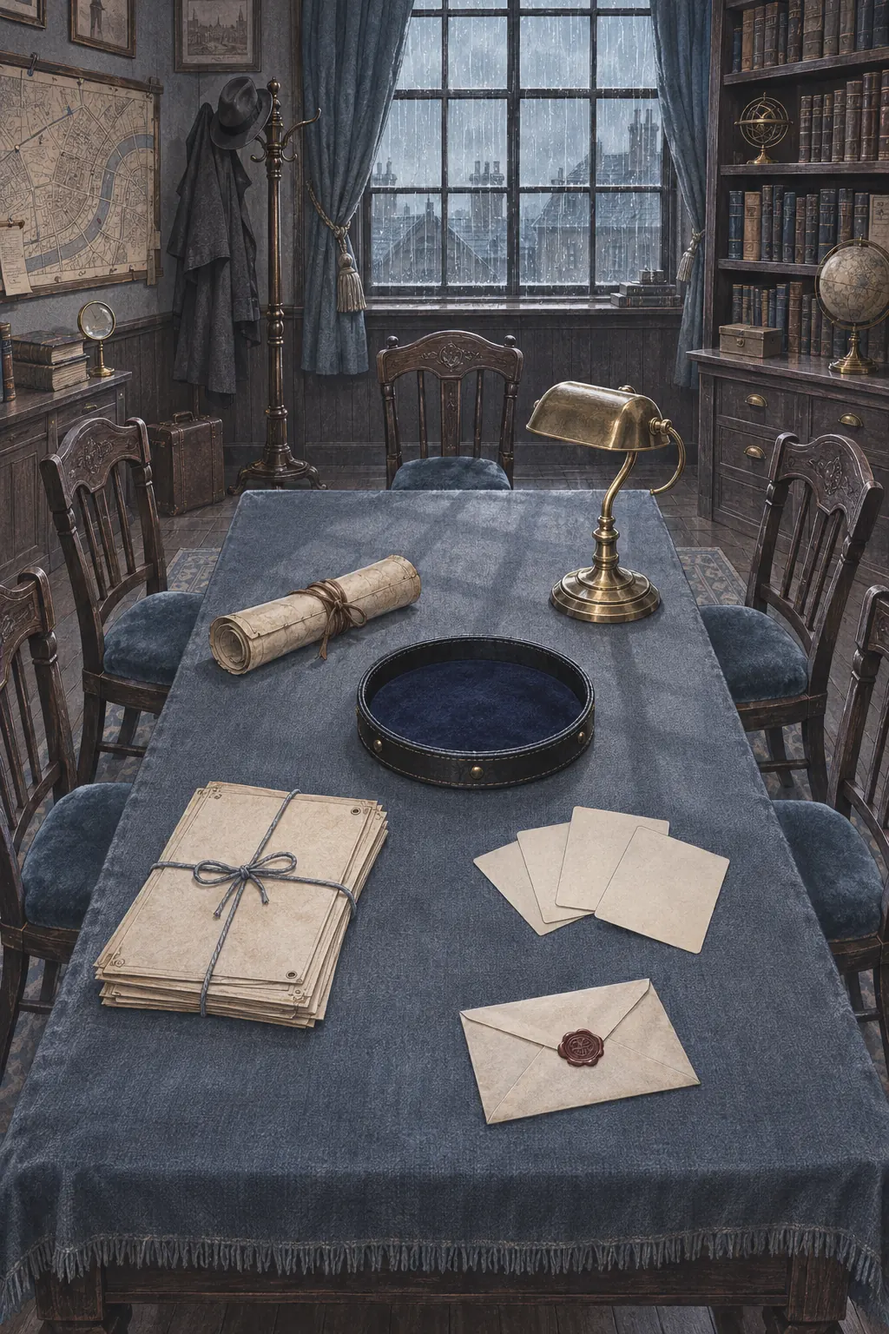
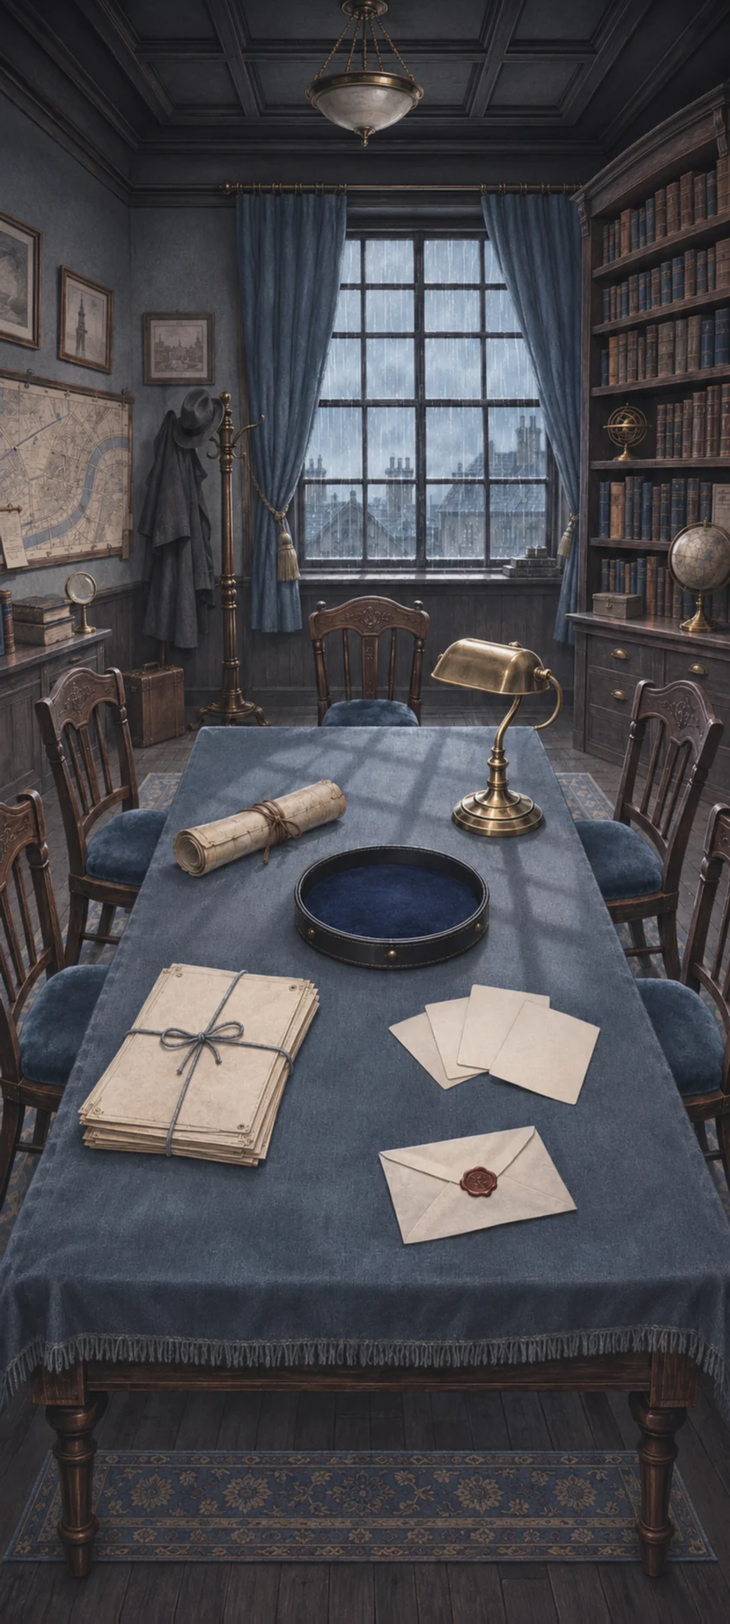
v0.8.311 幕间新开屏（红线证物、掷骰子、放大镜揭开插画）；书桌换成补画过的瘦长图，不裁两边
Claude-Session: https://claude.ai/code/session_01W7dSsqzJ4o6uwur84WiXDA

diff --git a/phone/apps/interlude/interlude.js b/phone/apps/interlude/interlude.js
@@ -41,12 +41,13 @@ let ac = null;   // 白噪音用的（和电台一样是程序算出来的）   
 const failed = (e, what) => { if (e.message === '已中止') toast('已取消'); else { if (!e.logId) log('error', '幕间', what + '：' + e.message, e); toast(what + '：' + e.message); } };
 
 /* ---------- 书桌 ---------- */
-// 图上的位置（原图 1024×1536 的像素）：[左, 上, 右, 下]；椅子多两个数是头像坐的位置。第一把（远端正对着你的主位）是 KP 的
-const IW = 1024, IH = 1536;
+// 图上的位置（最早那张 1024×1536 的图的像素）：[左, 上, 右, 下]；椅子多两个数是头像坐的位置。第一把（远端正对着你的主位）是 KP 的
+// 现在的图是 GPT 往上下补画过的瘦长图（841×1870，手机上不用裁两边）：老图缩成 0.817 倍落在里面，往下挪了 OY。下面的数还是老图的，换算一下
+const IW = 1029, IH = 2289, OX = 2, OY = 463;
 const SPOTS = [['files', [110, 900, 450, 1185], '卷宗', '所有的局'], ['cards', [545, 925, 840, 1095], '调查员卡', '车卡'], ['tray', [410, 755, 688, 905], '骰子盘', '掷骰子'],
   ['lamp', [605, 440, 790, 715], '台灯', '开关'], ['map', [240, 640, 485, 780], '旧地图', 'DND'], ['letter', [528, 1125, 805, 1285], '火漆信', '名录']];
 const CHAIRS = [[430, 380, 605, 565, 517, 515], [45, 480, 230, 830, 150, 700], [805, 500, 1015, 900, 885, 715], [0, 650, 150, 1230, 75, 965], [890, 670, 1024, 1260, 960, 965]];
-const pct = (v, all) => v / all * 100 + '%';
+const pct = (v, all) => v / all * 100 + '%', pxl = x => pct(x + OX, IW), pyt = y => pct(y + OY, IH);
 const keepSeats = () => { state.apps.interlude.seat = { kp: pick.kp, party: pick.party }; commit('apps'); };
 
 export function open() {
@@ -69,15 +70,15 @@ export function open() {
   const mo = new MutationObserver(() => { if (!scene.isConnected) mo.disconnect(); else if (lamp === null) paintLamp(); });
   mo.observe(document.querySelector('.as-phone'), { attributes: true, attributeFilter: ['data-mode'] });
   // 标签：钉在东西上的小玻璃牌
-  const tag = (x, y, text, cls = '') => h('span.as-int-pin' + cls, { style: `left:${pct(x, IW)};top:${pct(y, IH)}` }, h('i'), h('b', text));
-  const hot = (box, key) => h('button.as-int-hot', { 'aria-label': key, dataset: { k: key }, style: `left:${pct(box[0], IW)};top:${pct(box[1], IH)};width:${pct(box[2] - box[0], IW)};height:${pct(box[3] - box[1], IH)}` });
+  const tag = (x, y, text, cls = '') => h('span.as-int-pin' + cls, { style: `left:${pxl(x)};top:${pyt(y)}` }, h('i'), h('b', text));
+  const hot = (box, key) => h('button.as-int-hot', { 'aria-label': key, dataset: { k: key }, style: `left:${pxl(box[0])};top:${pyt(box[1])};width:${pct(box[2] - box[0], IW)};height:${pct(box[3] - box[1], IH)}` });
   SPOTS.forEach(([k, b, name, sub]) => world.append(hot(b, k), tag((b[0] + b[2]) / 2, b[1] + 6, sub ? `${name} · ${sub}` : name)));
   CHAIRS.forEach((c, i) => world.append(hot(c, i ? 'chair' : 'kp')));
   world.append(tag(517, 390, '主位 · KP'));
   // 左边远处那把椅子也钉一个小牌（和主位一样一直在），不然不知道点椅子能叫人上桌；椅子靠边，牌子往里伸，不出屏幕
   world.append(tag(175, 500, '座位 · 选人上桌', '.is-l'));
   // 椅子上坐的人：主位是 KP（中立的就放剪影），其余四把坐玩家；超过四个人，最后一把叠着显示「+几」
-  const seats = CHAIRS.map(c => { const el = h('span.as-int-sit', { style: `left:${pct(c[4], IW)};top:${pct(c[5], IH)}` }); world.append(el); return el; });
+  const seats = CHAIRS.map(c => { const el = h('span.as-int-sit', { style: `left:${pxl(c[4])};top:${pyt(c[5])}` }); world.append(el); return el; });
   const paintSeats = () => {
     const kc = pick.kp !== 'sys' && contact(pick.kp);
     seats[0].replaceChildren(kc ? avatar(kc.avatar, nameOf(kc), 40) : h('span.as-int-sit__kp', img('kp')), h('small', kc ? nameOf(kc) : '中立 KP')); seats[0].hidden = false;
@@ -86,9 +87,9 @@ export function open() {
   };
   if (!seated) { seated = true; Object.assign(pick, state.apps.interlude.seat); }
   pick.party = pick.party.filter(id => contact(id) && id !== pick.kp); if (!kpOk()) pick.kp = 'sys'; paintSeats();
-  const dice = h('div.as-int-traydice', { style: `left:${pct(470, IW)};top:${pct(770, IH)};width:${pct(160, IW)};height:${pct(110, IH)}` }); world.append(dice); restDice(dice);
+  const dice = h('div.as-int-traydice', { style: `left:${pxl(470)};top:${pyt(770)};width:${pct(160, IW)};height:${pct(110, IH)}` }); world.append(dice); restDice(dice);
   // 拖着看、推镜头
-  // 一屏放下整张桌子（作者不要左右拖）：比铺满再小一点好让两边的椅子露出来；图贴着顶，空出的一小截落在底下「上桌」那条后面（贴底的话顶上会空一大块）；靠边那两把椅子上的头像往里挪到看得见的地方
+  // 一屏放下整张桌子（作者不要左右拖、不要裁两边）：宽度铺满；屏幕比图短就裁掉一点上下补画的部分（桌子留在中间），比图还瘦长才放大裁两边；靠边那两把椅子上的头像往里挪到看得见的地方
   let W = 0, H = 0, ww = 0, wh = 0, ox = 0, oy = 0, zoom = null;
   const apply = (anim = true) => {
     world.style.transition = anim ? '' : 'none';
@@ -98,9 +99,9 @@ export function open() {
     world.style.transform = `translate(${tx}px, ${ty}px) scale(${s})`;
   };
   const fit = () => {
-    W = scene.clientWidth; H = scene.clientHeight; const k = Math.max(W / IW, H / IH * .92); ww = IW * k; wh = IH * k; ox = (W - ww) / 2; oy = 0;
+    W = scene.clientWidth; H = scene.clientHeight; const k = Math.max(W / IW, H / IH); ww = IW * k; wh = IH * k; ox = (W - ww) / 2; oy = Math.min(0, Math.max(H - wh, H / 2 - wh * .54));
     Object.assign(world.style, { width: ww + 'px', height: wh + 'px', left: ox + 'px', top: oy + 'px' });
-    const cut = -ox / k + 40; seats.forEach((el, i) => { el.style.left = pct(Math.min(IW - cut, Math.max(cut, CHAIRS[i][4])), IW); });   // 靠边的往里挪
+    const cut = -ox / k + 40; seats.forEach((el, i) => { el.style.left = pct(Math.min(IW - cut, Math.max(cut, CHAIRS[i][4] + OX)), IW); });   // 靠边的往里挪
     apply(false);
   };
   new ResizeObserver(fit).observe(scene);
@@ -153,121 +154,59 @@ export function open() {
   return p.el;
 }
 
-/* ---------- 开屏：羊皮卷展开 → 羽毛笔写下深蓝鎏金的楷书 → 火漆盖章 → 整张纸烧起来、灰随风散掉 ---------- */
+/* ---------- 开屏（克苏鲁这一套；以后 DND 另做一套，骨架一样：一根线 → 骰子 → 揭开插画）：
+ * 黑底上红线一段段串起六件证物，最后指向正中 → 两颗十面骰抛进来落定（真的掷一次）→ 放大镜滑过来，镜片里是全彩的插画（那扇门），镜片越放越大铺满 → 「幕间」和开屏语。
+ * 掷出 100（大失败）整张图发红、开屏语固定那句「门后面的东西」；掷出 01（大成功）门里的光变成金的 ---------- */
 // 开屏语轮着用（作者挑的七句）；字体两款轮着随机。都在设置 → 应用管理 → 幕间里能改
 export const SPLASH_FONTS = [['xdks', '玄冬楷书'], ['qtbf', '千图笔锋手写体']];
 export const SPLASH_LINES = ['这一夜不会被记住。所以，放心去做。', '愿你今夜运气很好，好到不必知道真相。', '门后面的东西也在等你。它比你有耐心。', '别在纸上找自己的名字。找到了，也别念出声。',
   '龙在睡觉。别在这时候数你的金币。', '灯灭之后，请各位保持原来的表情。', '读到这里，还来得及合上。——算了，你已经坐下了。'];
-const loadImg = src => new Promise(ok => { const i = new Image(); i.onload = () => ok(i); i.onerror = () => ok(null); i.src = src; });
+// 证物：[中心 x, 中心 y, 宽（都是占屏幕的比例）, 歪多少度, 高 ÷ 宽]，红线照这个顺序串；图钉在每张的顶上正中
+const CLUES = [[.27, .16, .4, -7, 355 / 420], [.75, .21, .4, 6, 380 / 415], [.12, .37, .23, -12, 420 / 264], [.84, .64, .33, 8, 364 / 352], [.25, .71, .38, -5, 360 / 405], [.63, .87, .4, 4, 318 / 420]];
+const LENS = [.3466, .3566, .3003, 617 / 640];   // 放大镜图里镜片的圆心（占图宽、高）、半径（占图宽）、图的高 ÷ 宽
 async function splash(host) {
   const A = state.apps.interlude, pickF = A.font || 'random', f = SPLASH_FONTS.find(x => x[0] === pickF) || SPLASH_FONTS[Math.floor(Math.random() * SPLASH_FONTS.length)];
   const pool = SPLASH_LINES.filter((_, i) => !(A.lineOff || []).includes(i)); if (!pool.length) pool.push(SPLASH_LINES[0]);
-  const line = pool[(A.turn || 0) % pool.length]; A.turn = ((A.turn || 0) + 1) % 10000; commit('apps');
-  const cv = h('canvas'), fx = h('canvas'), el = h('div.as-int-splash', img('splash-bg'), cv, fx, h('button.as-int-splash__skip', { onclick: () => done() }, '跳过'));
+  const t = Math.floor(Math.random() * 10), u = Math.floor(Math.random() * 10), fumble = !t && !u, crit = !t && u === 1;
+  const line = fumble ? SPLASH_LINES[2] : pool[(A.turn || 0) % pool.length]; A.turn = ((A.turn || 0) + 1) % 10000; commit('apps');
+  const board = h('div.as-int-sp__board'), dice = h('div.as-int-sp__dice'), main = img('splash-main', '.as-int-sp__main'), lens = img('lens', '.as-int-sp__lens');
+  const el = h('div.as-int-splash' + (fumble ? '.is-fumble' : crit ? '.is-crit' : ''), board, dice, main, lens, h('div.as-int-sp__title', h('b', '幕间'), h('i', 'INTERLUDE')), h('p.as-int-sp__line', line),
+    h('button.as-int-splash__skip', { onclick: e => { e.stopPropagation(); done(); } }, '跳过'));
   host.append(el);
-  let dead = false, raf = 0;
-  function done() { if (dead) return; dead = true; cancelAnimationFrame(raf); el.classList.add('is-out'); setTimeout(() => el.remove(), 500); }
+  let dead = false, raf = 0; const timers = [];
+  function done() { if (dead) return; dead = true; cancelAnimationFrame(raf); timers.forEach(clearTimeout); el.classList.add('is-out'); setTimeout(() => el.remove(), 500); }
+  const at = (ms, fn) => timers.push(setTimeout(fn, ms));
   const face = new FontFace('AsterSplash', `url(${BASE}fonts/${f[0]}.woff2)`);
-  const [paper, quill, seal] = await Promise.all([loadImg(BASE + 'scroll.webp'), loadImg(BASE + 'quill.webp'), loadImg(BASE + 'seal.webp'), face.load().then(x => document.fonts.add(x)).catch(() => {})]);
-  if (dead || !paper) { done(); return; }
-  const dpr = Math.min(2, devicePixelRatio || 1), W = el.clientWidth, H = el.clientHeight, pw = Math.min(W * .84, H * .6 * paper.width / paper.height), ph = pw * paper.height / paper.width;
-  const px = (W - pw) / 2, py = (H - ph) / 2;
-  for (const c of [cv, fx]) { c.width = W * dpr; c.height = H * dpr; c.style.width = W + 'px'; c.style.height = H + 'px'; }
-  const x = cv.getContext('2d'), y = fx.getContext('2d'); x.scale(dpr, dpr); y.scale(dpr, dpr);
-  const FONT = '"AsterSplash", "Noto Serif SC", serif', size = pw * .092;
-  // 句子按纸的宽度折行，每行居中；落款靠右
-  x.font = `${size}px ${FONT}`;
-  const rows = []; let cur = '';
-  for (const ch of line) { if (x.measureText(cur + ch).width > pw * .74 && cur && !'。，、；：？！—」'.includes(ch)) { rows.push(cur); cur = ''; } cur += ch; }   // 标点不开头
-  if (cur) rows.push(cur);
-  const top = .5 - (rows.length - 1) * .08;
-  const lines = rows.map((t, i) => [t, size, top + i * .16, 0]);
-  const gold = (y0, y1) => { const g = x.createLinearGradient(0, y0, 0, y1); g.addColorStop(0, '#f6e3a1'); g.addColorStop(.5, '#c9973c'); g.addColorStop(1, '#8a6224'); return g; };
-  const xOf = (t, sz, right) => right ? px + pw * .86 - x.measureText(t).width : W / 2 - x.measureText(t).width / 2;   // 左边
-  // 深蓝的字、鎏金的边：先描一圈金，再把字填上
-  const text = (t, sz, ry, right) => { x.font = `${sz}px ${FONT}`; x.textAlign = 'left'; x.textBaseline = 'middle';
-    const cy = py + ph * ry, lx = xOf(t, sz, right); x.lineJoin = 'round'; x.lineWidth = Math.max(1.6, sz * .075); x.strokeStyle = gold(cy - sz / 2, cy + sz / 2); x.strokeText(t, lx, cy); x.fillStyle = '#16244a'; x.fillText(t, lx, cy); };
-  // 一步步：展开 0.8s → 每行按长短写 → 盖章 → 烧
-  const T0 = performance.now(), unroll = 800, perChar = 110, gap = 260;
-  const plan = []; let t = unroll + 200; for (const l of lines) { const d = Math.max(500, l[0].length * perChar); plan.push([t, d]); t += d + gap; }
-  const stampAt = t + 100, burnAt = stampAt + 1100, burnLen = 2200, end = burnAt + burnLen + 300;
-  let snap = null, noise = null, ash = [], stamped = false;
-  // 纸烧起来：先把写好字、盖好章的这张纸拍成一张图，再按「噪声 + 离左下角多远」算每个点什么时候烧到
-  const prep = () => {
-    const w = Math.round(W * dpr), hh = Math.round(H * dpr); snap = x.getImageData(0, 0, w, hh);
-    // 两层噪声（粗的定大轮廓、细的让火边碎一点）
-    const layer = c => { const gw = Math.ceil(w / c) + 2, gh = Math.ceil(hh / c) + 2, g = Float32Array.from({ length: gw * gh }, Math.random);
-      return (i, j) => { const gx = i / c, gy = j / c, x0 = gx | 0, y0 = gy | 0, a = gx - x0, b = gy - y0, sx = a * a * (3 - 2 * a), sy = b * b * (3 - 2 * b);
-        return g[y0 * gw + x0] * (1 - sx) * (1 - sy) + g[y0 * gw + x0 + 1] * sx * (1 - sy) + g[(y0 + 1) * gw + x0] * (1 - sx) * sy + g[(y0 + 1) * gw + x0 + 1] * sx * sy; }; };
-    const big = layer(40 * dpr), fine = layer(7 * dpr);
-    noise = new Float32Array(w * hh);
-    for (let j = 0; j < hh; j++) for (let i = 0; i < w; i++) {
-      const dist = Math.hypot(i / dpr - px, j / dpr - (py + ph)) / Math.hypot(pw, ph);
-      noise[j * w + i] = dist * .82 + big(i, j) * .13 + fine(i, j) * .05;
-    }
-  };
-  const burn = k => {
-    const w = snap.width, out = x.createImageData(w, snap.height), s = snap.data, o = out.data, T = k * 1.1;
-    for (let p = 0, i = 0; p < noise.length; p++, i += 4) {
-      const a = s[i + 3]; if (!a) continue;
-      const d = noise[p] - T;
-      if (d < -.012) continue;                                   // 烧没了
-      if (d < 0) { const e = 1 + d / .012; o[i] = 255; o[i + 1] = 110 + 120 * e; o[i + 2] = 20 + 40 * e; o[i + 3] = a * e; if (Math.random() < .002) ash.push(p); continue; }   // 火边
-      const c = d < .025 ? d / .025 : 1;                          // 火边往里窄窄一圈烤焦
-      o[i] = s[i] * c + 40 * (1 - c); o[i + 1] = s[i + 1] * c + 18 * (1 - c); o[i + 2] = s[i + 2] * c + 6 * (1 - c); o[i + 3] = a;
-    }
-    x.setTransform(1, 0, 0, 1, 0, 0); x.putImageData(out, 0, 0); x.setTransform(dpr, 0, 0, dpr, 0, 0);
-  };
-  const flakes = [];
+  await Promise.all([main.decode(), lens.decode(), face.load().then(x => document.fonts.add(x))].map(x => x.catch(() => {})));
+  if (dead) return;
+  // 插画铺满，门（原图 560, 610 那儿）落在屏幕正中偏上：骰子落在它前面，放大镜也停在那儿
+  const W = el.clientWidth, H = el.clientHeight, k = Math.max(W / 1024, H / 1536), cx = W / 2, cy = H * .43;
+  const ml = Math.min(0, Math.max(W - 1024 * k, cx - 560 * k)), mt = Math.min(0, Math.max(H - 1536 * k, cy - 610 * k));
+  Object.assign(main.style, { width: 1024 * k + 'px', height: 1536 * k + 'px', left: ml + 'px', top: mt + 'px', transformOrigin: `${cx - ml}px ${cy - mt}px` });
+  // 证物 + 红线（线从每张的图钉拉到下一张，中间垂一点）
+  const pins = CLUES.map(([x, y, w, r, hw], i) => {
+    const a = r * Math.PI / 180, up = w * W * hw * .44;
+    board.append(h('img', { src: `${BASE}clue${i}.webp`, alt: '', style: `left:${x * 100}%;top:${y * 100}%;width:${w * 100}%;--r:${r}deg;animation-delay:${i * 150}ms` }));
+    return [x * W + Math.sin(a) * up, y * H - Math.cos(a) * up];
+  });
+  const d = [...pins, [cx, cy]].map((p, i, all) => i ? `Q${(all[i - 1][0] + p[0]) / 2} ${(all[i - 1][1] + p[1]) / 2 + 14} ${p[0]} ${p[1]}` : `M${p[0]} ${p[1]}`).join('');
+  const svg = document.createElementNS('http://www.w3.org/2000/svg', 'svg'); svg.setAttribute('viewBox', `0 0 ${W} ${H}`); svg.innerHTML = `<path d="${d}" pathLength="1"/>`; board.append(svg);
+  at(1100, () => throwDice(dice, t, u));
+  // 放大镜：从右下角滑到门那儿（镜片半径 R0），停一下，再放大到盖住整个屏幕。插画只在镜片的圆里看得见
+  const R0 = W * .27, lw = R0 / LENS[2], far = Math.hypot(Math.max(cx, W - cx), Math.max(cy, H - cy)) + 8;
+  Object.assign(lens.style, { width: lw + 'px', left: -LENS[0] * lw + 'px', top: -LENS[1] * lw * LENS[3] + 'px', transformOrigin: `${LENS[0] * 100}% ${LENS[1] * 100}%` });
+  const ease = v => v < .5 ? 4 * v * v * v : 1 - Math.pow(-2 * v + 2, 3) / 2, T0 = performance.now() + 2800;
   const step = now => {
-    if (dead) return;
-    const ms = now - T0;
-    if (ms < burnAt) {
-      x.clearRect(0, 0, W, H);
-      const u = Math.min(1, ms / unroll), e = 1 - Math.pow(1 - u, 3);
-      x.save(); x.beginPath(); x.rect(px - 20, py, pw + 40, ph * e); x.clip();
-      x.drawImage(paper, px, py, pw, ph);
-      let pen = null;
-      lines.forEach((l, i) => {
-        const [t0, d] = plan[i]; if (ms < t0) return;
-        const k = Math.min(1, (ms - t0) / d);
-        x.font = `${l[1]}px ${FONT}`; const m = x.measureText(l[0]).width, left = xOf(l[0], l[1], l[3]) - 6, right = left + (m + 12) * k;
-        x.save(); x.beginPath(); x.rect(left, py + ph * l[2] - l[1], right - left, l[1] * 2); x.clip(); text(...l); x.restore();
-        if (k < 1) pen = [right, py + ph * l[2]];
-      });
-      if (ms > stampAt && seal) {
-        if (!stamped) { stamped = true; thud(); }
-        const k = Math.min(1, (ms - stampAt) / 180), sz = pw * .26 * (1 + (1 - k) * 1.4), sxp = px + pw * .24, syp = py + ph * .8;
-        x.globalAlpha = k; x.save(); x.translate(sxp, syp); x.rotate(-.2); x.drawImage(seal, -sz / 2, -sz / 2, sz, sz * seal.height / seal.width);
-        x.font = `${sz * .2}px ${FONT}`; x.fillStyle = '#f3dcc7'; x.textAlign = 'center'; x.textBaseline = 'middle'; x.fillText('幕间', 0, 0); x.restore(); x.globalAlpha = 1;
-      }
-      x.restore();
-      y.clearRect(0, 0, W, H);
-      if (pen && quill) { const qh = pw * .34, qw = qh * quill.width / quill.height; y.save(); y.translate(pen[0], pen[1]); y.rotate(.5 + Math.sin(ms / 60) * .06); y.drawImage(quill, -qw * .15, -qh, qw, qh); y.restore(); }
-    } else {
-      if (!snap) { prep(); y.clearRect(0, 0, W, H); }
-      const k = Math.min(1, (ms - burnAt) / burnLen); ash.length = 0; burn(k);
-      // 火边落下的灰：往右上飘，越飘越淡
-      for (const pi of ash.slice(0, 18)) { const w = snap.width; flakes.push({ x: (pi % w) / dpr, y: (pi / w | 0) / dpr, vx: 20 + Math.random() * 50, vy: -20 - Math.random() * 40, life: 1, s: 1 + Math.random() * 2.5, hot: Math.random() < .3 }); }
-      y.clearRect(0, 0, W, H);
-      for (const f of flakes) { f.x += f.vx / 60; f.y += f.vy / 60; f.vy -= .3; f.vx += Math.sin(f.y / 30); f.life -= .012;
-        if (f.life > 0) { y.globalAlpha = f.life; y.fillStyle = f.hot ? '#ffb347' : '#3b332c'; y.fillRect(f.x, f.y, f.s, f.s * .7); } }
-      y.globalAlpha = 1;
-      if (ms > end) { done(); return; }
-    }
-    raf = requestAnimationFrame(step);
+    const ms = now - T0, a = ease(Math.min(1, Math.max(0, ms / 800))), b = Math.min(1, Math.max(0, (ms - 1050) / 750)), g = b * b * b;
+    const x = cx + (1 - a) * W * .75, y = cy + (1 - a) * H * .5 - Math.sin(a * Math.PI) * H * .08, R = R0 + (far - R0) * g;
+    main.style.clipPath = `circle(${R * 1.012}px at ${x - ml}px ${y - mt}px)`;
+    lens.style.transform = `translate(${x}px, ${y}px) rotate(${(1 - a) * 28}deg) scale(${R / R0})`; lens.style.opacity = 1 - g * 1.6;
+    if (b < 1) { raf = requestAnimationFrame(step); return; }
+    main.style.clipPath = 'none'; lens.remove(); board.remove(); dice.remove(); el.classList.add('is-open'); el.onclick = done;
   };
-  raf = requestAnimationFrame(step);
+  at(2800, () => { el.classList.add('is-lens'); raf = requestAnimationFrame(step); });
+  at(7600, done);
 }
-let actx = null;
-function thud() {
-  try {
-    actx = actx || new (window.AudioContext || window.webkitAudioContext)(); const o = actx.createOscillator(), g = actx.createGain(), t = actx.currentTime;
-    o.type = 'triangle'; o.frequency.setValueAtTime(180, t); o.frequency.exponentialRampToValueAtTime(60, t + .12);
-    g.gain.setValueAtTime(.5, t); g.gain.exponentialRampToValueAtTime(.001, t + .18); o.connect(g).connect(actx.destination); o.start(t); o.stop(t + .2);
-  } catch (e) { /* 不让响就算了 */ }
-}
-
 /* ---------- 开局设置：本、气氛、KP、每个人说什么语言、语音怎么合成 → 下一步车卡 ---------- */
 export const VOICE_MODES = [['tap', '点了才合成'], ['next', '提前合成下两句'], ['all', '全部合成']];
 const voiceDefault = () => ({ auto: 'next' }[state.apps.interlude.voice] || state.apps.interlude.voice || 'tap');

diff --git a/phone/apps/interlude/interlude.css b/phone/apps/interlude/interlude.css
@@ -55,10 +55,34 @@
 .as-int-sheet .as-list-item.is-on .as-check { opacity: 1; }
 
 /* ---------- 开屏：画布上展开、写字、盖章、烧掉 ---------- */
-.as-int-splash { position: absolute; inset: 0; z-index: 30; background: #120e0a; transition: opacity 500ms ease; }
-.as-int-splash > img { position: absolute; inset: 0; width: 100%; height: 100%; object-fit: cover; filter: brightness(.72); }
-.as-int-splash canvas { position: absolute; inset: 0; }
+.as-int-splash { position: absolute; inset: 0; z-index: 30; overflow: hidden; background: #070a11; transition: opacity 500ms ease; }
 .as-int-splash.is-out { opacity: 0; pointer-events: none; }
+.as-int-sp__board, .as-int-sp__dice { position: absolute; inset: 0; transition: opacity 500ms; }
+.as-int-sp__board img { position: absolute; transform: translate(-50%, -50%) rotate(var(--r)); filter: drop-shadow(0 6px 10px rgba(0,0,0,.6)); animation: as-int-clue 420ms cubic-bezier(.2, .9, .3, 1.2) backwards; }
+@keyframes as-int-clue { from { opacity: 0; transform: translate(-50%, -50%) rotate(calc(var(--r) * 2.5)) scale(1.3); } }
+.as-int-sp__board svg { position: absolute; inset: 0; width: 100%; height: 100%; filter: drop-shadow(0 2px 2px rgba(0,0,0,.6)); }
+.as-int-sp__board path { fill: none; stroke: #b3262c; stroke-width: 1.7; stroke-linecap: round; stroke-dasharray: 1; animation: as-int-thread 1100ms 120ms linear backwards; }
+@keyframes as-int-thread { from { stroke-dashoffset: 1; } }
+.as-int-sp__dice .as-int-die { position: absolute; left: 0; top: 0; filter: drop-shadow(0 10px 18px rgba(0,0,0,.6)); will-change: transform; }
+.as-int-sp__dice .as-int-die.is-t { width: 27%; }
+.as-int-sp__dice .as-int-die.is-u { width: 22%; }
+.as-int-sp__main { position: absolute; max-width: none; clip-path: circle(0); }
+.as-int-splash.is-open .as-int-sp__main { animation: as-int-push 7s ease-out forwards; }
+@keyframes as-int-push { to { transform: scale(1.09); } }
+.as-int-splash.is-fumble .as-int-sp__main { filter: sepia(.75) hue-rotate(-38deg) saturate(2.1) brightness(.8); }
+.as-int-splash.is-crit .as-int-sp__main { filter: sepia(.55) saturate(1.5) brightness(1.08); }
+.as-int-sp__lens { position: absolute; max-width: none; opacity: 0; filter: drop-shadow(0 14px 22px rgba(0,0,0,.65)); will-change: transform; }
+.as-int-splash:not(.is-lens) .as-int-sp__lens { visibility: hidden; }
+.as-int-sp__title, .as-int-sp__line { position: absolute; left: 0; right: 0; margin: 0; text-align: center; opacity: 0; font-family: "AsterSplash", "Noto Serif SC", serif; pointer-events: none; }
+.as-int-sp__title { top: 9%; }
+.as-int-sp__title b { display: block; font-size: 58px; font-weight: 400; line-height: 1.1; letter-spacing: .5em; text-indent: .5em; background: linear-gradient(#f6e3a1, #c9973c 55%, #8a6224); -webkit-background-clip: text; background-clip: text; color: transparent; filter: drop-shadow(0 2px 6px rgba(0,0,0,.6)); }
+.as-int-sp__title i { display: block; margin-top: 10px; font: 400 11px/1 Georgia, serif; letter-spacing: .62em; text-indent: .62em; color: rgba(233,220,190,.7); }
+.as-int-sp__title i::before, .as-int-sp__title i::after { content: ""; display: inline-block; vertical-align: middle; width: 34px; height: 1px; margin: 0 12px 0 0; background: rgba(201,151,60,.7); }
+.as-int-sp__title i::after { margin: 0 0 0 4px; }
+.as-int-sp__line { bottom: 9%; padding: 0 12%; font-size: 19px; line-height: 1.7; color: #efe6d2; text-shadow: 0 1px 8px rgba(0,0,0,.8); text-wrap: balance; }
+.as-int-splash.is-open .as-int-sp__title { animation: as-int-title 900ms 150ms ease-out forwards; }
+.as-int-splash.is-open .as-int-sp__line { animation: as-int-title 900ms 800ms ease-out forwards; }
+@keyframes as-int-title { from { opacity: 0; transform: translateY(8px); filter: blur(6px); } to { opacity: 1; transform: none; filter: none; } }
 .as-int-splash__skip { position: absolute; right: 14px; top: 52px; padding: 6px 14px; border: 1px solid rgba(241,236,226,.4); border-radius: 999px; background: rgba(0,0,0,.2); color: #f1ece2; font: 500 12px/1 var(--font-ui); z-index: 1; }
 
 .as-int-card { background: #3a4252; }

diff --git a/phone/apps/settings/settings.js b/phone/apps/settings/settings.js
@@ -13,7 +13,7 @@ import * as walls from '../../core/walls.js';
 import { importClockFont, removeClockFont, userFonts, hanFonts, fontKey, fontName } from '../../core/fonts.js';
 import { THEMES, lib } from '../../core/skin.js';
 
-export const VERSION = '0.8.310';
+export const VERSION = '0.8.311';
 export const FABS = [['forest', '森林小芽'], ['candy', '糖果'], ['ocean', '海洋'], ['sunflower', '向日葵'], ['neon', '霓虹'], ['iphone', 'iPhone'],
   ['ancient', '古风'], ['xianxia', '仙侠'], ['magic', '魔法'], ['steampunk', '蒸汽朋克'], ['retro', '复古游戏机'], ['autumn', '秋日']];
 const MODE_LABEL = { day: '日间', night: '夜间', auto: '跟随系统' };

diff --git a/docs/pages-interlude.md b/docs/pages-interlude.md
@@ -8,7 +8,8 @@
 - 以后：DND（旧地图）先摆着，点了提示「还没开放」。剧本杀不做了（作者定的），桌上的火漆信改成调查员名录。
 
 ## 二、开屏（2026-11-08 作者定的）
-- 打开 App：作者给的「通天塔」背景上，一张羊皮卷从上往下展开 → 羽毛笔一行行写下一句开屏语（楷书，深蓝的字、鎏金的边，标点不开头）→ 落款「——致调查员」→ 火漆「啪」盖在左下（印上「幕间」）→ 整张纸从左下角烧起来，灰往右上飘散 → 露出书桌。约 10 秒，右上角能跳过。
+- 打开 App（2026-11-12 作者要换成重返未来 1999 那种惊艳的开屏，定的骨架：一根线 → 骰子 → 揭开插画，每种规则一套皮）。克苏鲁这套：黑底上红线一段段串起六件证物（老照片、地图、纸牌、便条、剪报、火漆信），最后指向正中 → 两颗十面骰抛进来落定（真的掷一次）→ 放大镜滑过来，镜片里是全彩插画（深夜书房、半开的门透着冷光），镜片放大铺满 → 金色「幕间」+ 开屏语，点一下或等两三秒进书桌。掷出 100 整张图发红、开屏语固定「门后面的东西…」；掷出 01 门里的光变金。以前的羊皮卷 / 羽毛笔 / 烧纸那套不用了。
+- 以后做 DND 时再加一套（地图上的虚线路线 → 二十面骰 → 骰面炸开铺成插画；20 大成功、1 大失败），并在设置 → 应用管理 → 幕间里加「开屏用哪一套」：固定某一套 / 跟随上一局的规则（作者定的）。
 - 开屏语七句轮着用（作者挑的；不要「解释这个 App 是干嘛的」那种，要留白、对着「你」说、把大的东西说得轻）；字体玄冬楷书 / 千图笔锋手写体随机。设置 → 应用管理 → 幕间：开屏开关、开屏字体（两款或随机）、开屏语（每句能关掉）。
 - 每局开局前：演员表（主演：你 / 特别出演：上桌的角色 / 友情出演：KP / 片名），点一下跳过。
 
@@ -140,3 +141,4 @@
 - v0.8.293 写到一半断了接着写，改成只有那个 App 设置里开了「写到一半断了自动补写」才接（作者定的，默认不接；音乐没有这个设置，就不接）。等 AI 时除了占锁，再放一段听不见的声音（WebAudio，不抢别的 App 的声音），尽量让系统别停后台的页面。
 - v0.8.295 再进车卡会（停在最后一句）时不自己念那句，要听点小喇叭；第一次演的时候照旧念。
 - v0.8.296 开局设置加「不限点数」开关（作者定的，默认关）：开了属性总数、本职 / 兴趣技能点不审、AI 车卡时也不往下削，照人设给；每项技能的上限、武器、带枪这些照旧。车卡会点「改我的卡」时这页原地淡掉，不再横着滑。
+- v0.8.311 开屏换成新的（红线串证物 → 掷骰子 → 放大镜揭开插画 → 「幕间」+ 开屏语，见上面「二、开屏」）。书桌图换成 GPT 往上下补画过的瘦长图，手机上不再裁两边（屏幕比图短时只裁上下补画的部分），桌上能点的东西位置照新图换算过。

diff --git a/README.md b/README.md
@@ -1,6 +1,6 @@
 # AsterPhone ✦
 
-SillyTavern 小手机插件（v0.8.310 预览版）。
+SillyTavern 小手机插件（v0.8.311 预览版）。
 
 ## 安装到酒馆
 酒馆 → 扩展 → 安装扩展 → 粘贴 `https://github.com/xxuxin0705/AsterPhone` → 安装。
